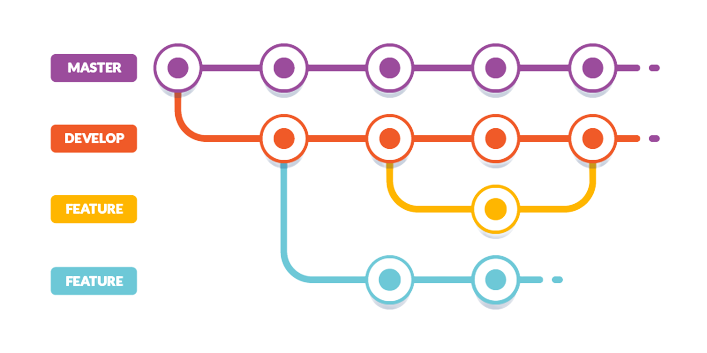
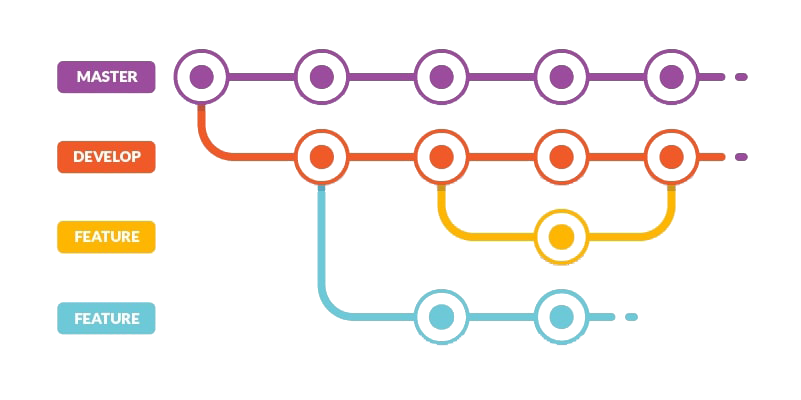
General cleanup of the repo

diff --git a/11-docker-compose-to-server/README.md b/11-docker-compose-to-server/README.md
@@ -39,6 +39,10 @@ Task:
 - Move to directory `00-spring-petclinic-deployment` (contains `docker-compose.yml` file) using the cd command cd `atlantbh-devops-internship/00-spring-petclinic-deployment`.
 - Once inside the directory, run `docker-compose up -d` to start the Docker containers defined in the `docker-compose.yml` file in a detached mode.
 
+<p align="center">
+    <img src="./01_screenshot.png"/>
+</p>
+
 ### Using the SSH Config File
 
 The `~/.ssh` directory is automatically created when the user runs the `ssh` command for the first time. If the directory doesn’t exist on your system, create it using the command: `mkdir -p ~/.ssh && chmod 700 ~/.ssh`.  
@@ -116,9 +120,9 @@ Nov 30 09:30:03 abh-MacBookPro systemd[1]: Started A high performance web server
 
 Before making any changes, back up the default Nginx configuration files for safety:
 ```bash
-cd /etc/nginx/
-sudo tar -czvf nginx_config_backup.tar.gz * #creates a .tar.gz file containing all the configuration files from the Nginx directory
-sudo tar -xzvf nginx_config_backup.tar.gz -C /etc/nginx/ #extract the backup file
+$ cd /etc/nginx/
+$ sudo tar -czvf nginx_config_backup.tar.gz * #creates a .tar.gz file containing all the configuration files from the Nginx directory
+$ sudo tar -xzvf nginx_config_backup.tar.gz -C /etc/nginx/ #extract the backup file
 ```
 
 ### NGINX Files and Directories
@@ -242,7 +246,15 @@ Take a look at ...
   - [frontend.praksa.abhapp.com](/00-spring-petclinic-deployment/nginx/frontend.praksa.abhapp.com)
   - [backend.praksa.abhapp.com](/00-spring-petclinic-deployment/nginx/backend.praksa.abhapp.com)
 
+<p align="center">
+    <img src="./02_screenshot.png"/>
+</p>
+
 ## SSL, TLS, HTTPS
+
+<p align="center">
+    <img src="./03_screenshot.png"/>
+</p>
 
 - **Secure Sockets Layer (SSL) certificates**, sometimes called digital certificates, are used to establish an encrypted connection between a browser or user’s computer and a server or website. SSL is standard technology for securing an internet connection by encrypting data sent between a website and a browser (or between two servers). It prevents hackers from seeing or stealing any information transferred, including personal or financial data.
 - SSL certificates establish an encrypted connection between a website/server and a browser with what’s known as an “**[SSL handshake](https://www.cloudflare.com/en-gb/learning/ssl/what-happens-in-a-tls-handshake/)**”. For visitors to the website, the process is invisible and instantaneous.
@@ -289,6 +301,10 @@ Congratulations! You have successfully enabled HTTPS on https://backend.praksa.a
 The `--nginx` flag specifies that Certbot should use the Nginx plugin for the certificate installation process, while `-d` flag specifies the domain for which the certificate should be generated and installed.
 
 Certbot automatically adjusts the Nginx configuration files, incorporating the necessary modifications to enable HTTPS.
+
+<p align="center">
+    <img src="./04_screenshot.png"/>
+</p>
 
 ### Screenshots of certificates
 <details>

diff --git a/README.md b/README.md
@@ -15,7 +15,7 @@ The repository encompasses this main `README.md` file offering essential guidanc
 > End date: 🔴
 
 <p align="left">
-    <img src="https://skillicons.dev/icons?i=git,github,md,linux,bash,vim,vscode,java,maven,angular,postgres,docker,githubactions,nginx"/>
+    <img src="https://skillicons.dev/icons?i=md,linux,bash,vim,maven,postgres,docker,githubactions,nginx,jenkins,kubernetes"/>
 </p>
 
 ## Further insight
@@ -37,7 +37,7 @@ Table of contents has been removed due to built-in support on GitHub. Markdown f
 
 **[Trello](https://trello.com) is a project management tool that is used for this internship.** It is a popular, simple, and easy-to-use collaboration tool that enables organizing projects and everything related to them into boards. 
 
-### Gitflow workflow
+### Git Feature Branch Workflow
 
 <img name="git_feature_branch_workflow.png" src="/resources/git_feature_branch_workflow.png"/>
 
@@ -61,6 +61,10 @@ $ brew list #to see a list of all the packages you've installed
 `00-spring-petclinic-deployment` directory contains cloned versions of both the application's frontend and backend which are updated versions resulting from completed tasks:
 - `spring-petclinic-rest` [(Original Repository)](https://github.com/spring-petclinic/spring-petclinic-rest) is the backend version of the Spring Petclinic application provides a REST API. 
 - `spring-petclinic-angular` [(Original Repository)](https://github.com/spring-petclinic/spring-petclinic-angular) is the Angular frontend application (Client only) which consumes the REST API (from backend spring-petclinic-rest project). Prior to launching the frontend application, it's essential to start the backend server.
+
+## [AuctionApp](https://github.com/EmirKapic/AuctionApp)
+
+`AuctionApp` is the application for which I've designed a CI/CD pipeline to facilitate collaboration among DEV, QA, and PM teams. The repository [auction_app_tests](https://github.com/ajlasisic/auction_app_tests) serves as the centralized location for the tests associated with this application.
 
 ## First month
 

diff --git a/08-docker/README.md b/08-docker/README.md
@@ -95,7 +95,7 @@ Dockerfile -> Image -> Container:
 By default, Docker uses a bridge network with a subnet like 172.17.0.0/16 and a gateway like 172.17.0.1 for containers to communicate with the host and other containers on the same network. We can create our custom network, for example:
 
 ```
-docker network create petclinic-network
+$ docker network create petclinic-network
 ```
 
 Docker automatically assign a subnet (`172.18.0.0/16`) and gateway (`172.18.0.1`) to the network if not specified. 
@@ -112,7 +112,7 @@ We can configure host volumes at the service level, and named volumes in the out
 
 It is not required to first create volume: `docker volume create [OPTIONS] [VOLUME]`. You can also specify e.g. `-v psql-db:/var/lib/postgresql/data` it in `docker run` command:
 ```
-docker run -d -p 5432:5432 --network petclinic-network -v psql-db:/var/lib/postgresql/data --name petclinic-postgres petclinic-postgres
+$ docker run -d -p 5432:5432 --network petclinic-network -v psql-db:/var/lib/postgresql/data --name petclinic-postgres petclinic-postgres
 ```
 
 ## Create Database Dockerfile and build docker image <a name="database"></a>
@@ -253,9 +253,9 @@ $ docker push adinpilavdzija/petclinic-angular:1.0
 
 Pull images from Docker Hub.
 ```
-docker pull adinpilavdzija/petclinic-postgres:1.0
-docker pull adinpilavdzija/petclinic-rest:1.0
-docker pull adinpilavdzija/petclinic-angular:1.0
+$ docker pull adinpilavdzija/petclinic-postgres:1.0
+$ docker pull adinpilavdzija/petclinic-rest:1.0
+$ docker pull adinpilavdzija/petclinic-angular:1.0
 ```
 
 ## Image-building best practices

diff --git a/05-setup-postgresql-db/README.md b/05-setup-postgresql-db/README.md
@@ -95,14 +95,14 @@ For performing CRUD operations (Create, Read, Update, Delete) in a PostgreSQL da
 - In addition to these permissions on tables, users may need permissions on sequences (for auto-incrementing primary keys) and any other database objects that are involved in the CRUD operations, such as views, stored procedures, or triggers. Auto-incrementing primary keys are often implemented using serial or bigserial data types, which are linked to sequences.
 
 ```
-GRANT CONNECT ON DATABASE petclinic TO adinp;
+$ GRANT CONNECT ON DATABASE petclinic TO adinp;
 
-GRANT SELECT, INSERT, UPDATE, DELETE ON owners, pets, roles, specialties, types, users, vet_specialties, vets, visits TO adinp;
+$ GRANT SELECT, INSERT, UPDATE, DELETE ON owners, pets, roles, specialties, types, users, vet_specialties, vets, visits TO adinp;
 ```
 
 Executing the `psql` command `\ds` provides a list of relations, including sequences. Grant pemission on sequences with following command:
 ```
-GRANT USAGE, SELECT ON SEQUENCE types_id_seq, owners_id_seq, pets_id_seq, roles_id_seq, specialties_id_seq, types_id_seq, vets_id_seq, visits_id_seq TO adinp;
+$ GRANT USAGE, SELECT ON SEQUENCE types_id_seq, owners_id_seq, pets_id_seq, roles_id_seq, specialties_id_seq, types_id_seq, vets_id_seq, visits_id_seq TO adinp;
 ```
 
 Change password if needed:

diff --git a/06-backend-postgresql-integration/README.md b/06-backend-postgresql-integration/README.md
@@ -21,7 +21,7 @@ For Maven, add the following dependency if missing:
 
 In its default configuration, Petclinic uses an in-memory database (HSQLDB) which gets populated at startup with data. A similar setups is provided for MySql and PostgreSQL in case a persistent database configuration is needed. To run petclinic locally using persistent database, it is needed to change profile defined in application.properties file.
 
-For PostgeSQL database, it is needed to change param `hsqldb` to `postgresql` in string defined in `application.properties` file:
+For PostgreSQL database, it is needed to change param `hsqldb` to `postgresql` in string defined in `application.properties` file:
 ```
 spring.profiles.active=hsqldb,spring-data-jpa
 ```

diff --git a/07-environment-variables/README.md b/07-environment-variables/README.md
@@ -113,7 +113,7 @@ POSTGRES_PASSWORD=
 ```
 
 > [!TIP]
-> The `envsubst` command performs variable replacement by searching for patterns within input data and replacing them with corresponding variable values. To use it effectively, export the necessary variables into the system environment and then execute `envsubst < .env.tpl > .env`.
+> The `envsubst` command performs variable replacement by searching for patterns within input data and replacing them with corresponding variable values. To use it effectively, export the necessary variables into the system environment and then execute `$ envsubst < .env.tpl > .env`.
 
 ## `.gitignore`
 

diff --git a/02-setup-local-env-backend/README.md b/02-setup-local-env-backend/README.md
@@ -137,9 +137,9 @@ The output shows maven home location, the JDK it’s using and also the Mac OS v
 ## Running petclinic locally with maven command line
 
 ```
-git clone https://github.com/spring-petclinic/spring-petclinic-rest.git
-cd spring-petclinic-rest
-./mvnw spring-boot:run
+$ git clone https://github.com/spring-petclinic/spring-petclinic-rest.git
+$ cd spring-petclinic-rest
+$ ./mvnw spring-boot:run
 ```
 You can then access petclinic here: http://localhost:9966/petclinic/.
 

diff --git a/09-docker-compose/README.md b/09-docker-compose/README.md
@@ -4,6 +4,13 @@
 
 Task: Create docker-compose file for spring petclinic app -> [docker-compose.yml](/00-spring-petclinic-deployment/docker-compose.yml)
 
+## Solution
+
+Visual representation of the solution:
+<p align="center">
+    <img src="./01_docker_compose.png"/>
+</p>
+
 ## Resources
 
 - [Docker Tutorial for Beginners [FULL COURSE in 3 Hours] by TechWorld with Nana](https://youtu.be/3c-iBn73dDE?si=CWVZAiVqEFOlDqOE)

diff --git a/10-github-actions/README.md b/10-github-actions/README.md
@@ -251,6 +251,11 @@ jobs:
 ```
 </details>
 
+This showcases my CI/CD process, featuring two distinct workflows with two event triggers:
+<p align="center">
+    <img src="./01_screenshot_my_workflows.png"/>
+</p>
+
 ## Security: Best Practices
 
 [GitHub Actions - Security Best Practices](https://blog.gitguardian.com/github-actions-security-cheat-sheet/)

diff --git a/13-setup-local-k8s-cluster/README.md b/13-setup-local-k8s-cluster/README.md
@@ -16,7 +16,7 @@ Task: Use any sort of provider k3d, kind, minikube. Some providers deploy traefi
 
 Install k3d using Homebrew:
 ```bash
-brew install k3d
+$ brew install k3d
 ```
 
 Create k3d cluster and verify:
